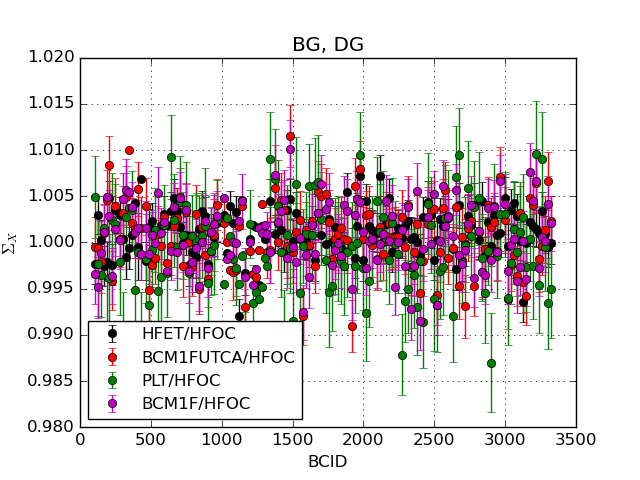
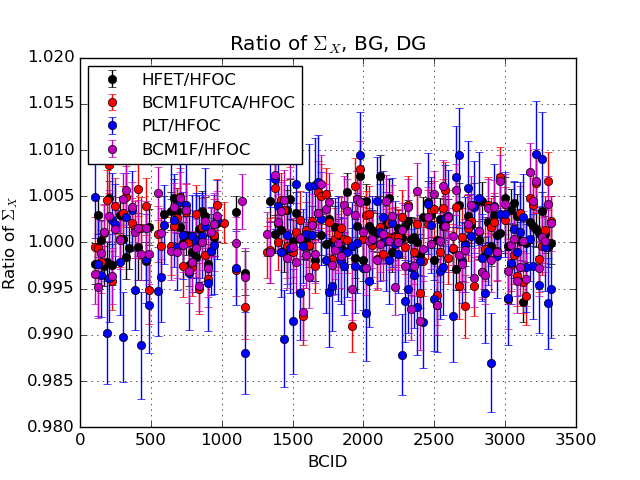
Fix Ratio Plots

Changed region(s): [[0.125, 0.0625, 0.875, 0.875], [0.0, 0.4062, 0.0312, 0.625], [0.5312, 0.3125, 0.5938, 0.3438]]

diff --git a/uml.py b/uml.py
@@ -7,7 +7,9 @@ from scan_results import ScanResults
 from title_builder import TitleBuilder
 from functions import match_bcids
 
+import matplotlib
 import matplotlib.pyplot as plt
+matplotlib.use("Agg")
 
 
 @dataclass
@@ -152,7 +154,7 @@ class RatioPlotStrategy(PlotStrategy):
             self.output_dir = Path(self.output_dir)
         self.output_dir = self.output_dir/"plots"/"ratio"
         self.fmt = kwargs.get("fmt", "o")
-        self.color = kwargs.get("color", ["k", "r", "g", "b", "m", "c", "y"])
+        self.color = kwargs.get("color", ["k", "r", "b", "g", "m", "c", "y"])
         self.legend_fontsize = kwargs.get("legend_fontsize", 12)
 
     def on_correction_loop_entry(self, results: ScanResults, fit: str, correction: str) -> bool:
@@ -166,14 +168,13 @@ class RatioPlotStrategy(PlotStrategy):
         if detector == self.reference_detector:
             return
 
-        data = results.filter_results_by(fit, correction, detector)
-        ref = results.filter_results_by(fit, correction, self.reference_detector)
-
-        if not ref["BCID"].equals(data["BCID"]):
-            bcid_filter = np.intersect1d(ref["BCID"], data["BCID"])
-
-            data = data[data["BCID"].isin(bcid_filter)].reset_index(drop=True)
-            ref = ref[ref["BCID"].isin(bcid_filter)].reset_index(drop=True)
+        data = results.filter_results_by(
+            fit, correction, detector, quality="good"
+        ).set_index("BCID")
+        ref = results.filter_results_by(
+            fit, correction, self.reference_detector, quality="good"
+        ).set_index("BCID")
+        data, ref = match_bcids(data, ref)
 
         yaxis = data[self.quantity] / ref[self.quantity]
         yerr = yaxis * np.sqrt(
@@ -182,7 +183,7 @@ class RatioPlotStrategy(PlotStrategy):
         )
 
         plt.errorbar(
-            data["BCID"],
+            data.index,
             yaxis,
             yerr=yerr,
             label=f"{detector}/{self.reference_detector}",
@@ -194,12 +195,12 @@ class RatioPlotStrategy(PlotStrategy):
         title = TitleBuilder() \
                 .set_fit(fit) \
                 .set_correction(correction) \
-                .set_info(results.name).build()
+                .set_info(f"Ratio of {self.quantity_latex}").build()
 
         plt.grid()
         plt.title(title)
         plt.xlabel(self.xlabel)
-        plt.ylabel(self.quantity_latex)
+        plt.ylabel(f"Ratio of {self.quantity_latex}")
         plt.legend(loc=self.legend_loc, fontsize=self.legend_fontsize)
         plt.ticklabel_format(useOffset=False, axis="y")  # Prevent plt from adding offset to y axis
 

diff --git a/scan_results.py b/scan_results.py
@@ -5,6 +5,7 @@ from datetime import datetime
 
 import re
 
+import numpy as np
 import pandas as pd
 
 
@@ -142,8 +143,33 @@ class ScanResults:
     def energy_str(self) -> str:
         return f"{self.energy} {self.energy_unit}"
 
-    def filter_results_by(self, fit: str, correction: str, detector: str) -> pd.DataFrame:
-        return self.results[fit].query(f"detector == '{detector}' and correction == '{correction}'")
+    def filter_results_by(self, fit: str, correction: str, detector: str, quality: str = "as_is") -> pd.DataFrame:
+        data = self.results[fit].query(
+            f"detector == '{detector}' and correction == '{correction}'"
+        )
+
+        if quality == "good":
+            return self._filter_good_cov_status(data, 3)
+        elif quality == "bad":
+            return self._filter_good_cov_status(data, 1)
+        elif quality == "as_is":
+            return data
+
+    def _filter_good_cov_status(self, data: pd.DataFrame, cov_status: int) -> pd.DataFrame:
+        good_bcids_in_x = data[data["covStatus_X"] == cov_status]["BCID"].to_numpy()
+        good_bcids_in_y = data[data["covStatus_Y"] == cov_status]["BCID"].to_numpy()
+        
+        good_bcids = good_bcids_in_x
+
+        if good_bcids_in_x.shape != good_bcids_in_y.shape or np.any(good_bcids_in_x != good_bcids_in_y):
+            good_bcids = np.intersect1d(good_bcids_in_x, good_bcids_in_y)
+
+        data = data[data["BCID"].isin(good_bcids)].reset_index(drop=True)
+
+        assert data["covStatus_X"].unique() == cov_status
+        assert data["covStatus_Y"].unique() == cov_status
+
+        return data
 
     def _get_fill_number(self) -> int:
         result = re.match(r"^(\d)*", self._path.stem)

diff --git a/functions.py b/functions.py
@@ -5,10 +5,27 @@ import pandas as pd
 
 
 def match_bcids(dataframe1: pd.DataFrame, dataframe2: pd.DataFrame) -> Tuple[pd.DataFrame, pd.DataFrame]:
-    if not dataframe2["BCID"].equals(dataframe1["BCID"]):
-        bcid_filter = np.intersect1d(dataframe2["BCID"], dataframe1["BCID"])
+    # Find common indexes
+    common_indexes = dataframe1.index.intersection(dataframe2.index)
 
-        dataframe1 = dataframe1[dataframe1["BCID"].isin(bcid_filter)].reset_index(drop=True)
-        dataframe2 = dataframe2[dataframe2["BCID"].isin(bcid_filter)].reset_index(drop=True)
+    # Filter DataFrames based on common indexes
+    dataframe1 = dataframe1.loc[common_indexes]
+    dataframe2 = dataframe2.loc[common_indexes]
 
     return dataframe1, dataframe2
+
+def filter_by_cov_status(dataframe: pd.DataFrame, cov_status: int) -> pd.DataFrame:
+    good_bcids_in_x = dataframe[dataframe["covStatus_X"] == cov_status]["BCID"].to_numpy()
+    good_bcids_in_y = dataframe[dataframe["covStatus_Y"] == cov_status]["BCID"].to_numpy()
+    
+    good_bcids = good_bcids_in_x
+
+    if good_bcids_in_x.shape != good_bcids_in_y.shape or np.any(good_bcids_in_x != good_bcids_in_y):
+        good_bcids = np.intersect1d(good_bcids_in_x, good_bcids_in_y)
+
+    dataframe = dataframe[dataframe["BCID"].isin(good_bcids)].reset_index(drop=True)
+
+    assert dataframe["covStatus_X"].unique() == cov_status
+    assert dataframe["covStatus_Y"].unique() == cov_status
+
+    return dataframe
